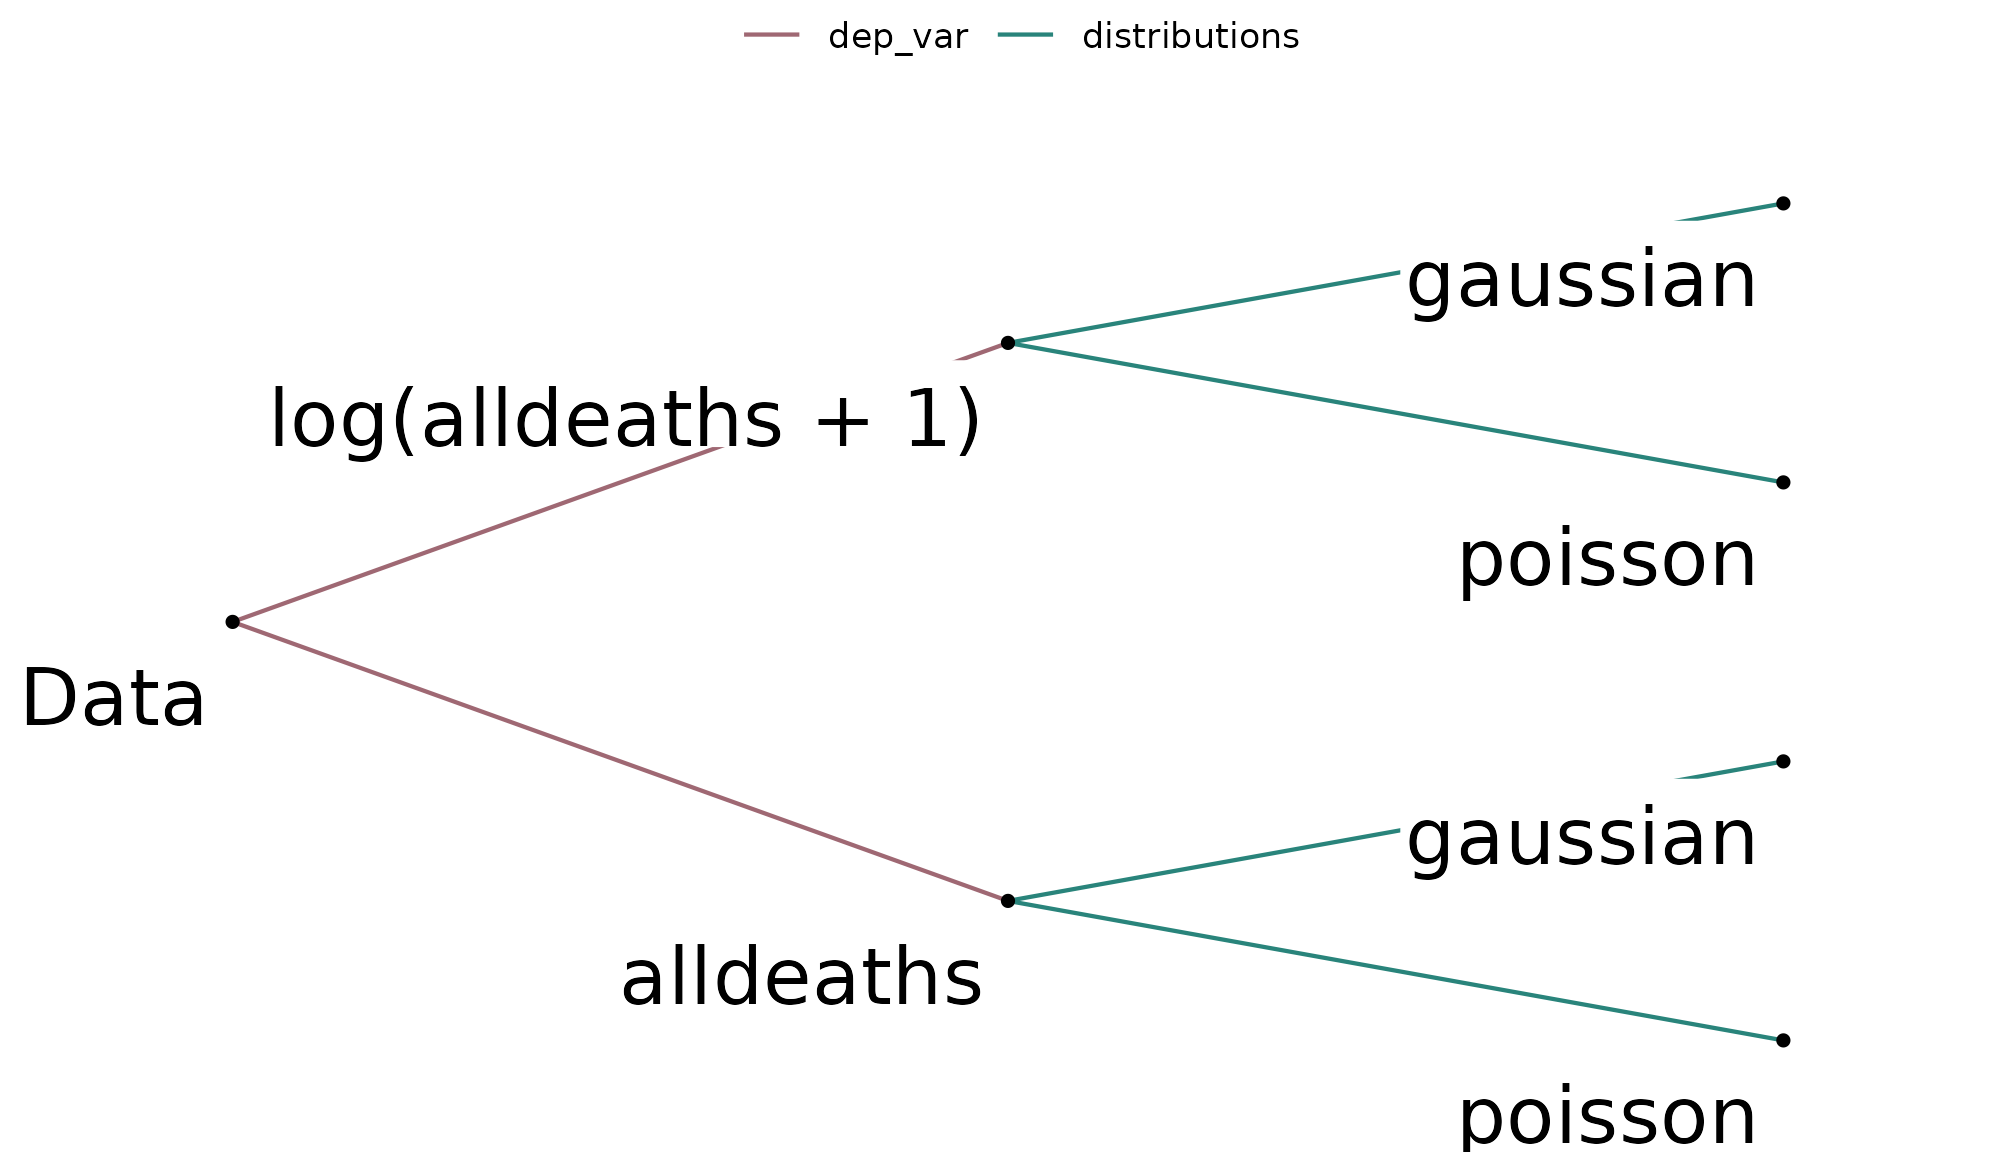
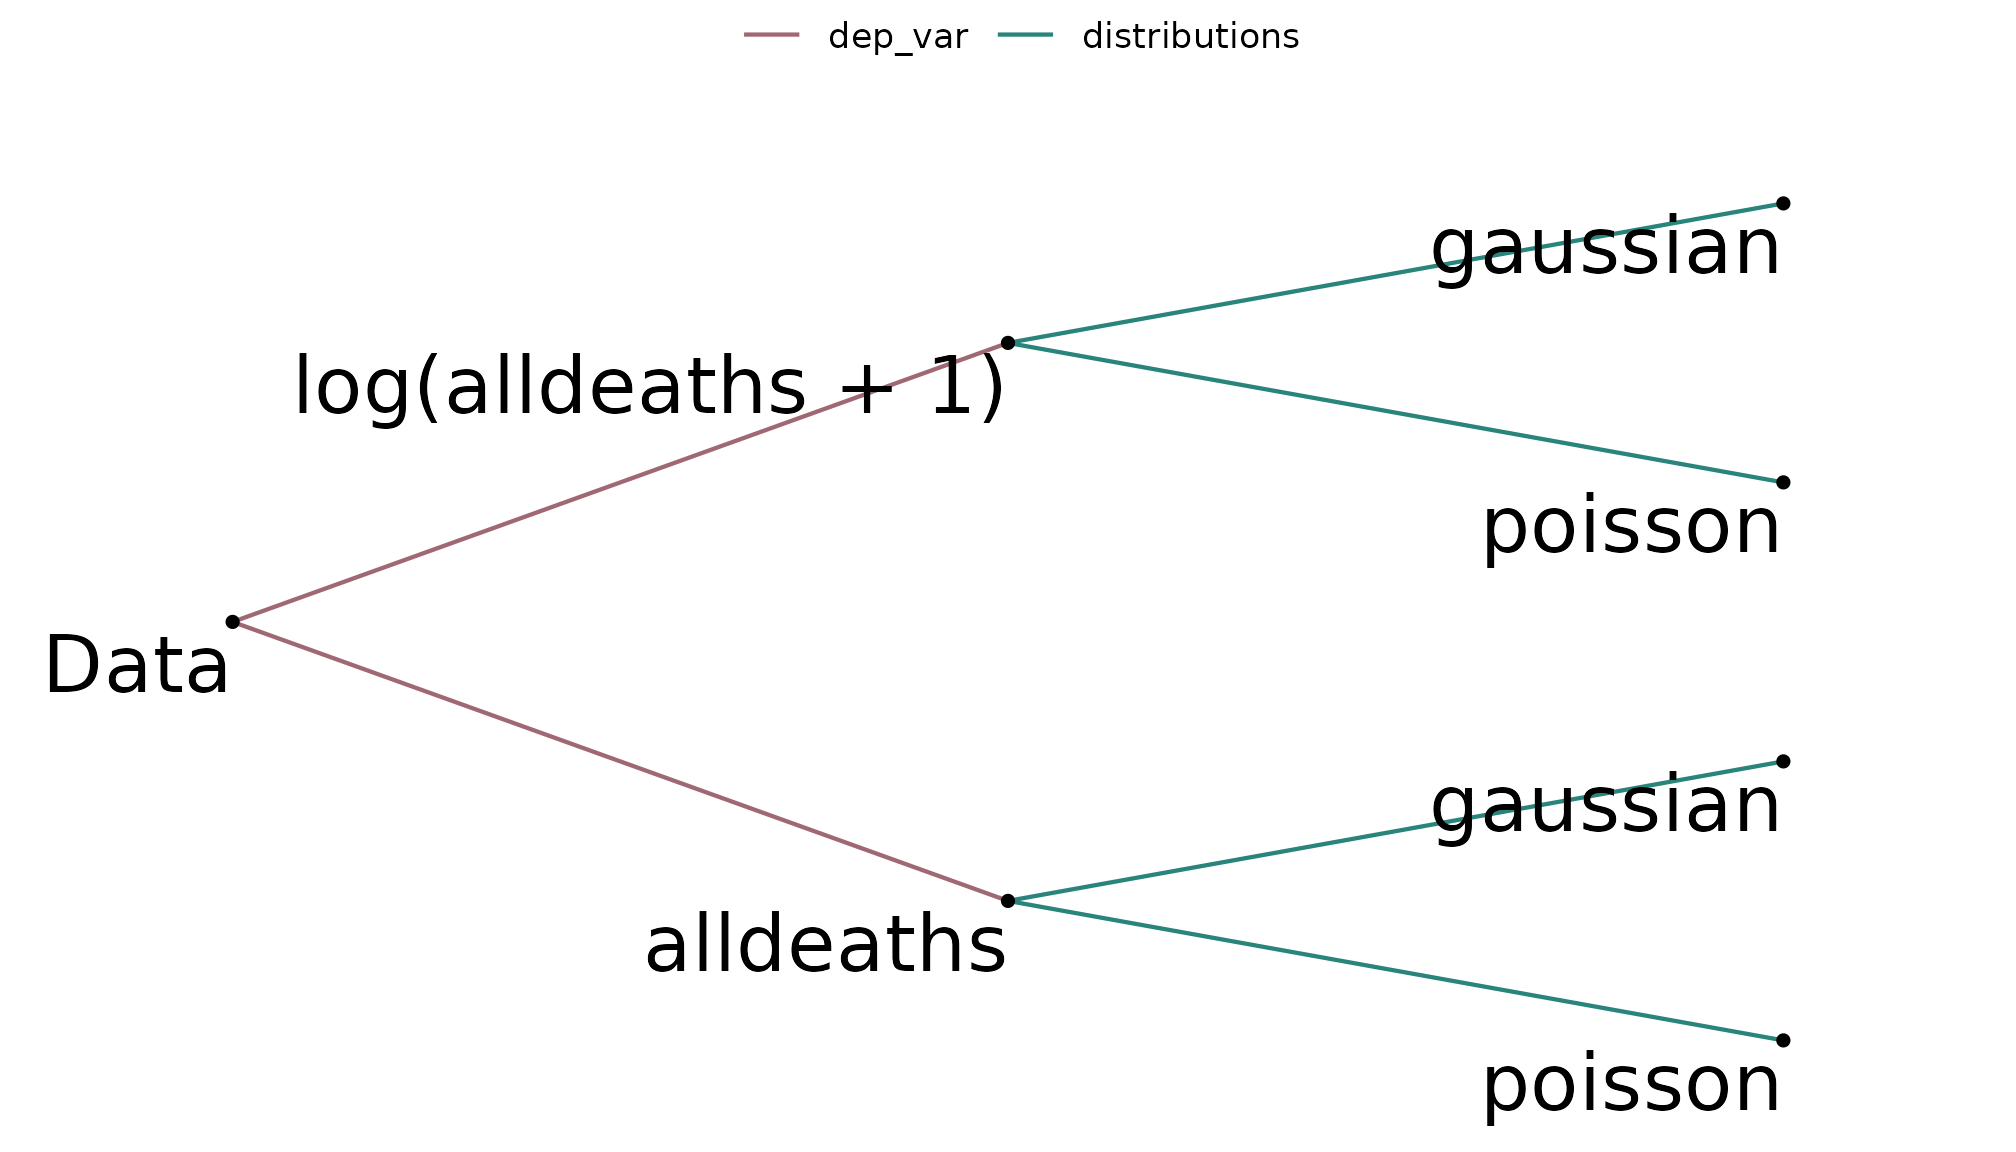
Built site for mverse: 0.1.0@3ccde59

diff --git a/reference/extract.html b/reference/extract.html
@@ -207,16 +207,16 @@ the method randomly samples rows with replacement.</p>
 <span class="r-out co"><span class="r-pr">#&gt;</span> <span style="color: #949494;"># A tibble: 282 × 5</span></span>
 <span class="r-out co"><span class="r-pr">#&gt;</span>    universe hurricane_strength[,1]     y hurricane_strength_branch y_branch </span>
 <span class="r-out co"><span class="r-pr">#&gt;</span>    <span style="color: #949494; font-style: italic;">&lt;fct&gt;</span>                     <span style="color: #949494; font-style: italic;">&lt;dbl&gt;</span> <span style="color: #949494; font-style: italic;">&lt;dbl&gt;</span> <span style="color: #949494; font-style: italic;">&lt;fct&gt;</span>                     <span style="color: #949494; font-style: italic;">&lt;fct&gt;</span>    </span>
-<span class="r-out co"><span class="r-pr">#&gt;</span> <span style="color: #BCBCBC;"> 1</span> 1                          <span style="text-decoration: underline;">1</span>590     2 NDAM                      alldeaths</span>
-<span class="r-out co"><span class="r-pr">#&gt;</span> <span style="color: #BCBCBC;"> 2</span> 1                          <span style="text-decoration: underline;">5</span>350     4 NDAM                      alldeaths</span>
-<span class="r-out co"><span class="r-pr">#&gt;</span> <span style="color: #BCBCBC;"> 3</span> 1                           150     3 NDAM                      alldeaths</span>
-<span class="r-out co"><span class="r-pr">#&gt;</span> <span style="color: #BCBCBC;"> 4</span> 1                            58     1 NDAM                      alldeaths</span>
-<span class="r-out co"><span class="r-pr">#&gt;</span> <span style="color: #BCBCBC;"> 5</span> 1                            15     0 NDAM                      alldeaths</span>
-<span class="r-out co"><span class="r-pr">#&gt;</span> <span style="color: #BCBCBC;"> 6</span> 1                         <span style="text-decoration: underline;">19</span>321    60 NDAM                      alldeaths</span>
-<span class="r-out co"><span class="r-pr">#&gt;</span> <span style="color: #BCBCBC;"> 7</span> 1                          <span style="text-decoration: underline;">3</span>230    20 NDAM                      alldeaths</span>
-<span class="r-out co"><span class="r-pr">#&gt;</span> <span style="color: #BCBCBC;"> 8</span> 1                         <span style="text-decoration: underline;">24</span>260    20 NDAM                      alldeaths</span>
-<span class="r-out co"><span class="r-pr">#&gt;</span> <span style="color: #BCBCBC;"> 9</span> 1                          <span style="text-decoration: underline;">2</span>030     0 NDAM                      alldeaths</span>
-<span class="r-out co"><span class="r-pr">#&gt;</span> <span style="color: #BCBCBC;">10</span> 1                         <span style="text-decoration: underline;">14</span>730   200 NDAM                      alldeaths</span>
+<span class="r-out co"><span class="r-pr">#&gt;</span> <span style="color: #BCBCBC;"> 1</span> 7                        -<span style="color: #BB0000;">0.439</span>     2 scale(NDAM)               alldeaths</span>
+<span class="r-out co"><span class="r-pr">#&gt;</span> <span style="color: #BCBCBC;"> 2</span> 7                        -<span style="color: #BB0000;">0.148</span>     4 scale(NDAM)               alldeaths</span>
+<span class="r-out co"><span class="r-pr">#&gt;</span> <span style="color: #BCBCBC;"> 3</span> 7                        -<span style="color: #BB0000;">0.550</span>     3 scale(NDAM)               alldeaths</span>
+<span class="r-out co"><span class="r-pr">#&gt;</span> <span style="color: #BCBCBC;"> 4</span> 7                        -<span style="color: #BB0000;">0.558</span>     1 scale(NDAM)               alldeaths</span>
+<span class="r-out co"><span class="r-pr">#&gt;</span> <span style="color: #BCBCBC;"> 5</span> 7                        -<span style="color: #BB0000;">0.561</span>     0 scale(NDAM)               alldeaths</span>
+<span class="r-out co"><span class="r-pr">#&gt;</span> <span style="color: #BCBCBC;"> 6</span> 7                         0.932    60 scale(NDAM)               alldeaths</span>
+<span class="r-out co"><span class="r-pr">#&gt;</span> <span style="color: #BCBCBC;"> 7</span> 7                        -<span style="color: #BB0000;">0.312</span>    20 scale(NDAM)               alldeaths</span>
+<span class="r-out co"><span class="r-pr">#&gt;</span> <span style="color: #BCBCBC;"> 8</span> 7                         1.31     20 scale(NDAM)               alldeaths</span>
+<span class="r-out co"><span class="r-pr">#&gt;</span> <span style="color: #BCBCBC;"> 9</span> 7                        -<span style="color: #BB0000;">0.405</span>     0 scale(NDAM)               alldeaths</span>
+<span class="r-out co"><span class="r-pr">#&gt;</span> <span style="color: #BCBCBC;">10</span> 7                         0.577   200 scale(NDAM)               alldeaths</span>
 <span class="r-out co"><span class="r-pr">#&gt;</span> <span style="color: #949494;"># … with 272 more rows</span></span>
 <span class="r-in"><span class="co"># Specify the proportion of data to extract from each universe using</span></span>
 <span class="r-in"><span class="co"># frow. The rows are randomly selected</span></span>
@@ -224,16 +224,16 @@ the method randomly samples rows with replacement.</p>
 <span class="r-out co"><span class="r-pr">#&gt;</span> <span style="color: #949494;"># A tibble: 792 × 5</span></span>
 <span class="r-out co"><span class="r-pr">#&gt;</span>    universe hurricane_strength[,1]     y hurricane_strength_branch y_branch </span>
 <span class="r-out co"><span class="r-pr">#&gt;</span>    <span style="color: #949494; font-style: italic;">&lt;fct&gt;</span>                     <span style="color: #949494; font-style: italic;">&lt;dbl&gt;</span> <span style="color: #949494; font-style: italic;">&lt;dbl&gt;</span> <span style="color: #949494; font-style: italic;">&lt;fct&gt;</span>                     <span style="color: #949494; font-style: italic;">&lt;fct&gt;</span>    </span>
-<span class="r-out co"><span class="r-pr">#&gt;</span> <span style="color: #BCBCBC;"> 1</span> 1                             1     0 NDAM                      alldeaths</span>
-<span class="r-out co"><span class="r-pr">#&gt;</span> <span style="color: #BCBCBC;"> 2</span> 1                          <span style="text-decoration: underline;">4</span>730    12 NDAM                      alldeaths</span>
-<span class="r-out co"><span class="r-pr">#&gt;</span> <span style="color: #BCBCBC;"> 3</span> 1                         <span style="text-decoration: underline;">20</span>510    10 NDAM                      alldeaths</span>
-<span class="r-out co"><span class="r-pr">#&gt;</span> <span style="color: #BCBCBC;"> 4</span> 1                          <span style="text-decoration: underline;">6</span>870    22 NDAM                      alldeaths</span>
-<span class="r-out co"><span class="r-pr">#&gt;</span> <span style="color: #BCBCBC;"> 5</span> 1                           160     1 NDAM                      alldeaths</span>
-<span class="r-out co"><span class="r-pr">#&gt;</span> <span style="color: #BCBCBC;"> 6</span> 1                            96     3 NDAM                      alldeaths</span>
-<span class="r-out co"><span class="r-pr">#&gt;</span> <span style="color: #BCBCBC;"> 7</span> 1                          <span style="text-decoration: underline;">1</span>590     2 NDAM                      alldeaths</span>
-<span class="r-out co"><span class="r-pr">#&gt;</span> <span style="color: #BCBCBC;"> 8</span> 1                          <span style="text-decoration: underline;">8</span>260    26 NDAM                      alldeaths</span>
-<span class="r-out co"><span class="r-pr">#&gt;</span> <span style="color: #BCBCBC;"> 9</span> 1                           170     8 NDAM                      alldeaths</span>
-<span class="r-out co"><span class="r-pr">#&gt;</span> <span style="color: #BCBCBC;">10</span> 1                            35     0 NDAM                      alldeaths</span>
+<span class="r-out co"><span class="r-pr">#&gt;</span> <span style="color: #BCBCBC;"> 1</span> 1                             6     3 NDAM                      alldeaths</span>
+<span class="r-out co"><span class="r-pr">#&gt;</span> <span style="color: #BCBCBC;"> 2</span> 1                          <span style="text-decoration: underline;">6</span>200     7 NDAM                      alldeaths</span>
+<span class="r-out co"><span class="r-pr">#&gt;</span> <span style="color: #BCBCBC;"> 3</span> 1                          <span style="text-decoration: underline;">6</span>870    22 NDAM                      alldeaths</span>
+<span class="r-out co"><span class="r-pr">#&gt;</span> <span style="color: #BCBCBC;"> 4</span> 1                          <span style="text-decoration: underline;">4</span>980    51 NDAM                      alldeaths</span>
+<span class="r-out co"><span class="r-pr">#&gt;</span> <span style="color: #BCBCBC;"> 5</span> 1                         <span style="text-decoration: underline;">10</span>690    62 NDAM                      alldeaths</span>
+<span class="r-out co"><span class="r-pr">#&gt;</span> <span style="color: #BCBCBC;"> 6</span> 1                           800     3 NDAM                      alldeaths</span>
+<span class="r-out co"><span class="r-pr">#&gt;</span> <span style="color: #BCBCBC;"> 7</span> 1                           500     2 NDAM                      alldeaths</span>
+<span class="r-out co"><span class="r-pr">#&gt;</span> <span style="color: #BCBCBC;"> 8</span> 1                          <span style="text-decoration: underline;">3</span>020     8 NDAM                      alldeaths</span>
+<span class="r-out co"><span class="r-pr">#&gt;</span> <span style="color: #BCBCBC;"> 9</span> 1                           410     3 NDAM                      alldeaths</span>
+<span class="r-out co"><span class="r-pr">#&gt;</span> <span style="color: #BCBCBC;">10</span> 1                           250     3 NDAM                      alldeaths</span>
 <span class="r-out co"><span class="r-pr">#&gt;</span> <span style="color: #949494;"># … with 782 more rows</span></span>
 </code></pre></div>
     </div>

diff --git a/reference/multiverse_tree.html b/reference/multiverse_tree.html
@@ -77,7 +77,13 @@ zooming into a subset of branches using <code>branches</code> parameter.</p>
     </div>
 
     <div id="ref-usage">
-    <div class="sourceCode"><pre class="sourceCode r"><code><span class="fu">multiverse_tree</span><span class="op">(</span><span class="va">.mverse</span>, label <span class="op">=</span> <span class="cn">FALSE</span>, branches <span class="op">=</span> <span class="cn">NULL</span>, label_size <span class="op">=</span> <span class="cn">NULL</span><span class="op">)</span></code></pre></div>
+    <div class="sourceCode"><pre class="sourceCode r"><code><span class="fu">multiverse_tree</span><span class="op">(</span>
+  <span class="va">.mverse</span>,
+  label <span class="op">=</span> <span class="cn">FALSE</span>,
+  branches <span class="op">=</span> <span class="cn">NULL</span>,
+  label_size <span class="op">=</span> <span class="cn">NULL</span>,
+  label_angle <span class="op">=</span> <span class="fl">0</span>
+<span class="op">)</span></code></pre></div>
     </div>
 
     <div id="arguments">
@@ -91,6 +97,8 @@ zooming into a subset of branches using <code>branches</code> parameter.</p>
 when specified. Display all when NULL.</p></dd>
 <dt>label_size</dt>
 <dd><p>A numeric. Set size of option labels.</p></dd>
+<dt>label_angle</dt>
+<dd><p>A numeric. Rotate option labels.</p></dd>
 </dl></div>
     <div id="value">
     <h2>Value</h2>
@@ -127,6 +135,10 @@ when specified. Display all when NULL.</p></dd>
 <span class="r-in"><span class="co"># with label for each option.</span></span>
 <span class="r-in"><span class="fu">multiverse_tree</span><span class="op">(</span><span class="va">mv</span>, branches <span class="op">=</span> <span class="fu"><a href="https://rdrr.io/r/base/c.html" class="external-link">c</a></span><span class="op">(</span><span class="st">"y"</span>, <span class="st">"distribution"</span><span class="op">)</span>, label <span class="op">=</span> <span class="cn">TRUE</span><span class="op">)</span></span>
 <span class="r-plt img"><img src="multiverse_tree-3.png" alt="" width="1050" height="649"></span>
+<span class="r-in"><span class="co"># adjusting size and orientation of the labels</span></span>
+<span class="r-in"><span class="fu">multiverse_tree</span><span class="op">(</span><span class="va">mv</span>, branches <span class="op">=</span> <span class="fu"><a href="https://rdrr.io/r/base/c.html" class="external-link">c</a></span><span class="op">(</span><span class="st">"y"</span>, <span class="st">"distribution"</span><span class="op">)</span>,</span>
+<span class="r-in">  label <span class="op">=</span> <span class="cn">TRUE</span>, label_size <span class="op">=</span> <span class="fl">4</span>, label_angle <span class="op">=</span> <span class="fl">45</span><span class="op">)</span></span>
+<span class="r-plt img"><img src="multiverse_tree-4.png" alt="" width="1050" height="649"></span>
 <span class="r-in"><span class="co"># }</span></span>
 </code></pre></div>
     </div>
